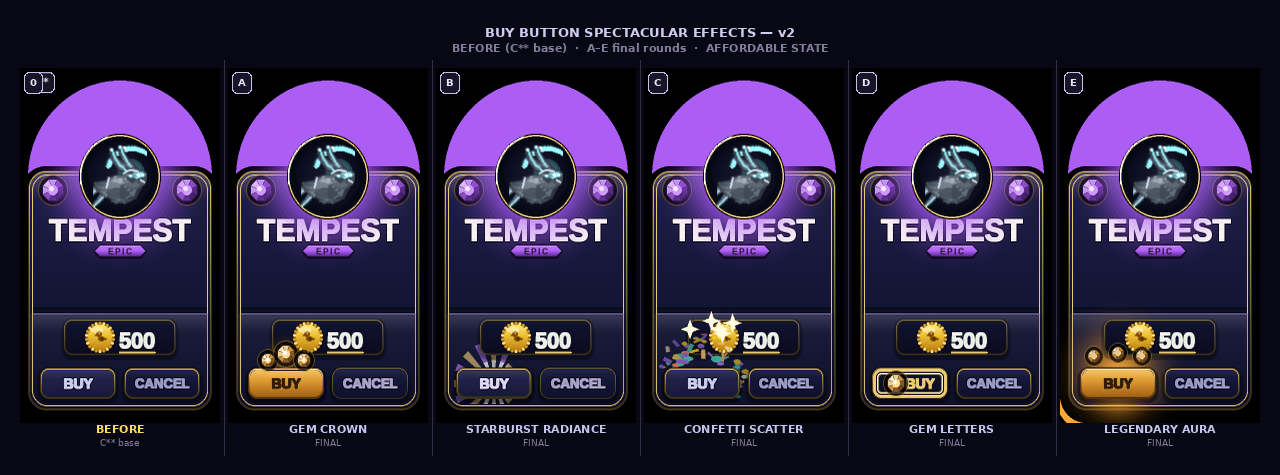
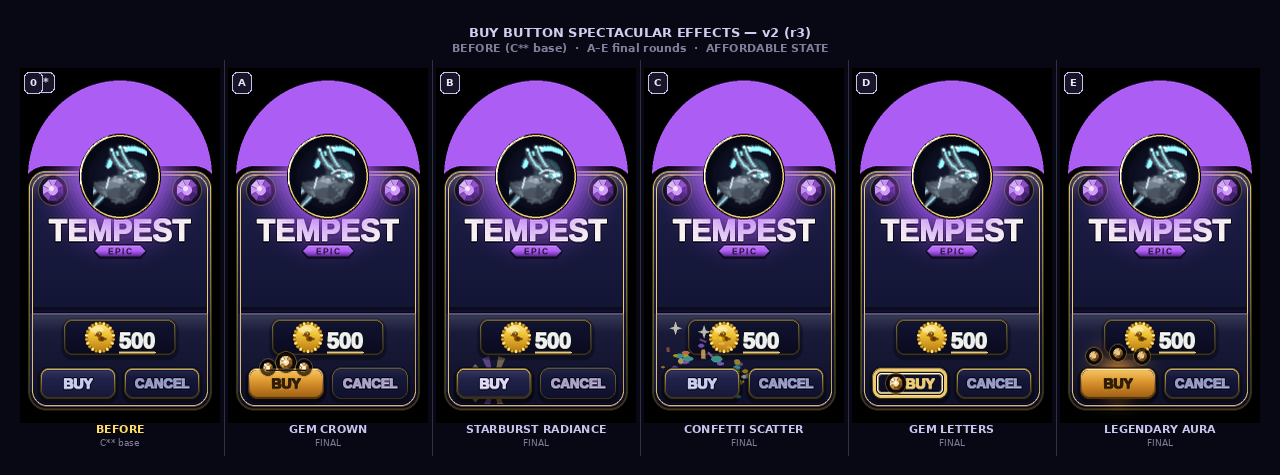
buy-fancy-v2 showcase: rebuild from r3 (toned down + fixed cabochon disc)

diff --git a/tools/_store_confirm_shelf_v3_buy_fancy_v2_showcase.py b/tools/_store_confirm_shelf_v3_buy_fancy_v2_showcase.py
@@ -41,7 +41,7 @@ CONCEPTS = [
 
 concept_imgs = []
 for badge, slug, _ in CONCEPTS:
-    path = os.path.join(BASE_BF2, slug, "round_2.png")
+    path = os.path.join(BASE_BF2, slug, "round_3.png")
     img  = Image.open(path).crop(CROP)
     concept_imgs.append(img)
 
@@ -71,7 +71,7 @@ except Exception:
 # Global header
 hx = CANVAS_W // 2
 hy = MARGIN + HDR_H // 2
-draw.text((hx, hy - 8), "BUY BUTTON SPECTACULAR EFFECTS — v2",
+draw.text((hx, hy - 8), "BUY BUTTON SPECTACULAR EFFECTS — v2 (r3)",
           fill=(210, 205, 240), font=fnt_hdr, anchor="mm")
 draw.text((hx, hy + 8), "BEFORE (C** base)  ·  A–E final rounds  ·  AFFORDABLE STATE",
           fill=(130, 125, 155), font=fnt_lbl, anchor="mm")
